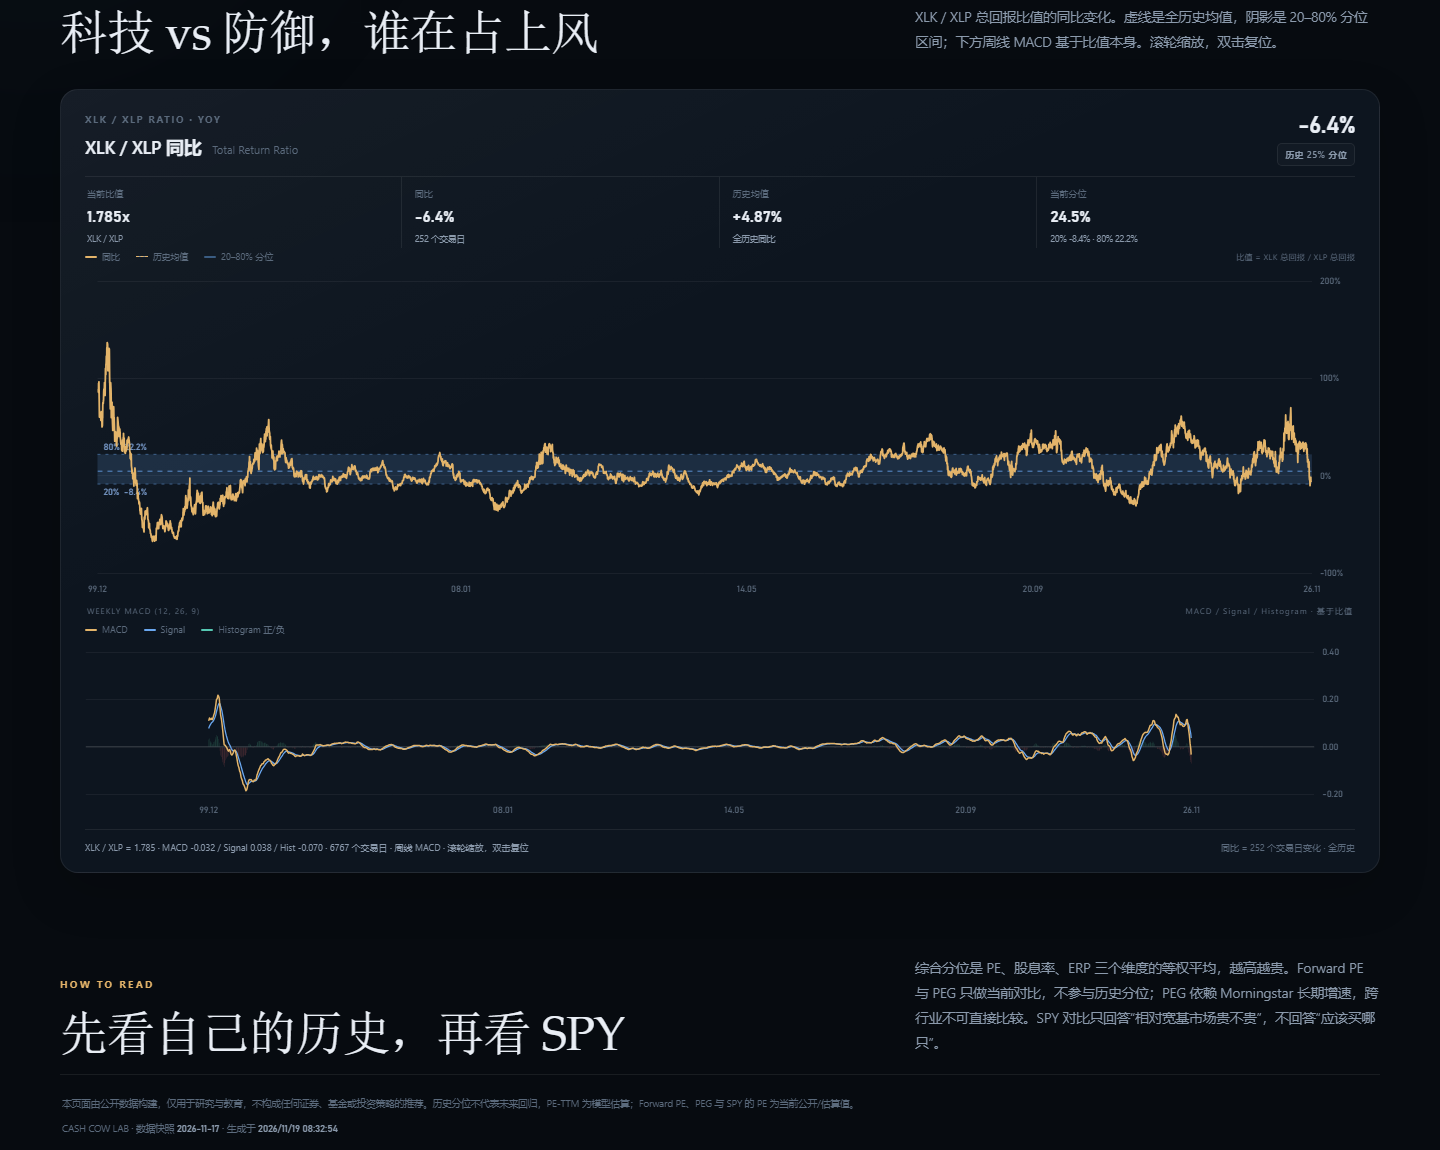
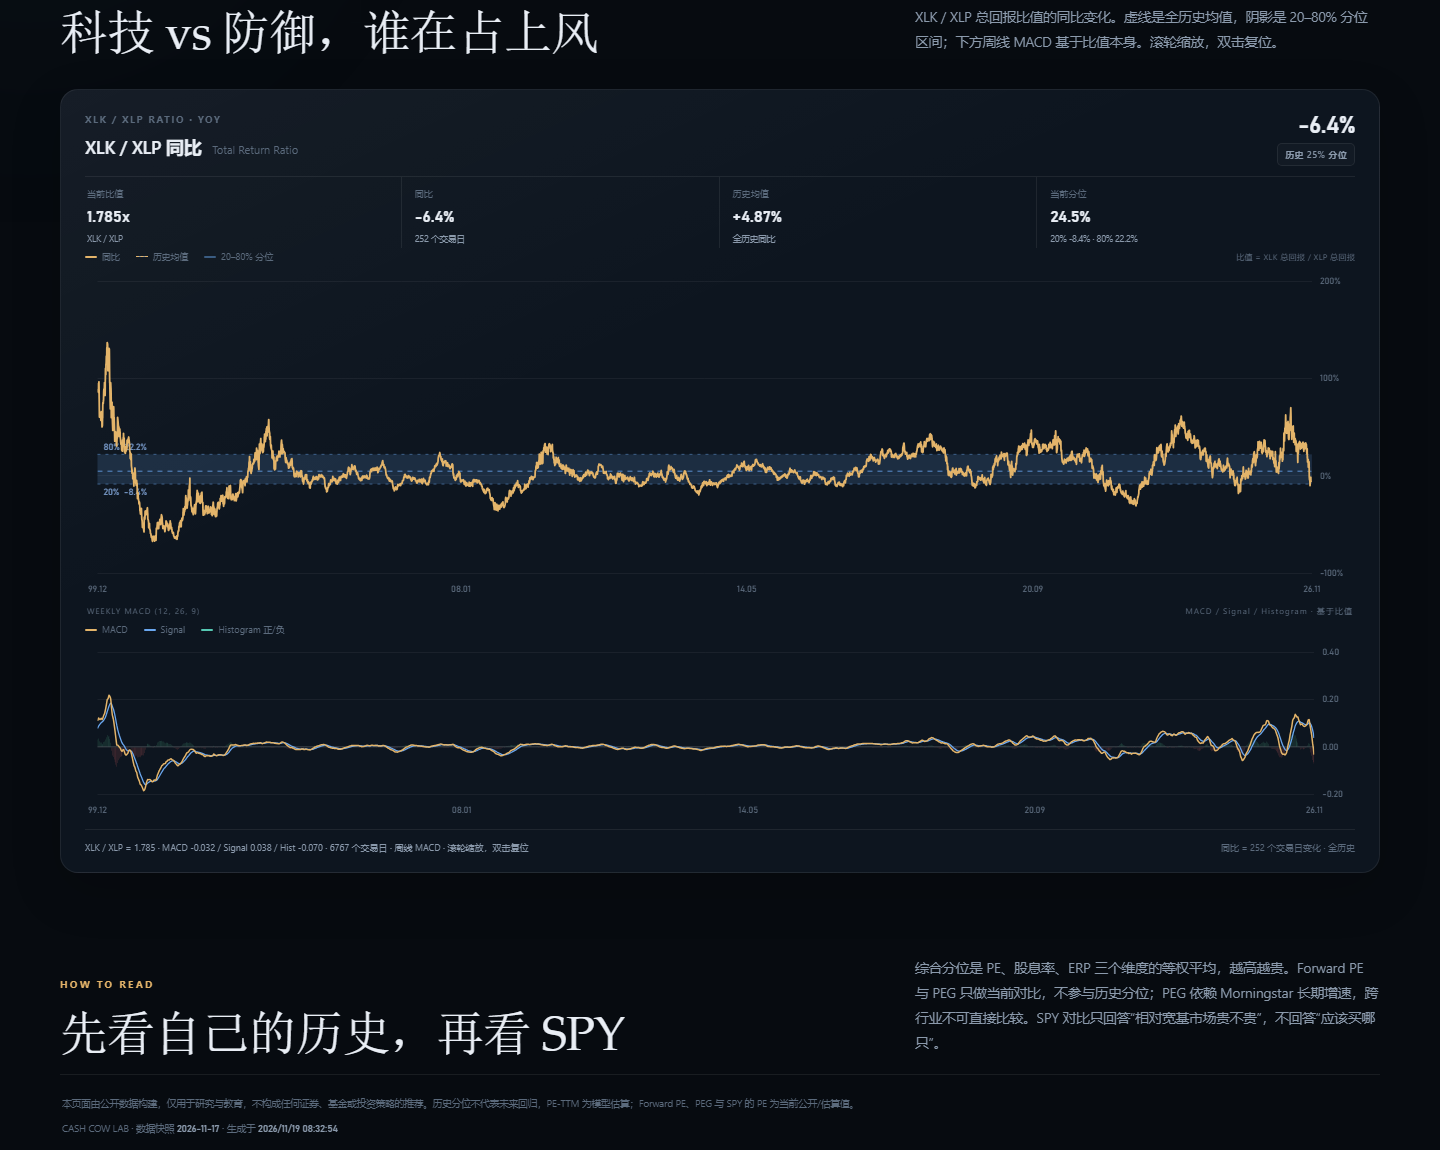
new

Changed region(s): [[0.0625, 0.6087, 0.4375, 0.7], [0.5625, 0.6087, 0.9062, 0.6696], [0.5, 0.6391, 0.5312, 0.6696]]

diff --git a/site/overview.js b/site/overview.js
@@ -195,6 +195,7 @@
         type: "linear",
         min: first,
         max: last + 3 * DAY,
+        offset: false,
         grid: { display: false },
         border: { display: false },
         ticks: {
@@ -324,4 +325,5 @@
     canvas.addEventListener("wheel", (event) => zoomAt(event, canvas), { passive: false });
     canvas.addEventListener("dblclick", () => applyWindow(first));
   });
-})();
+
+  })();

diff --git a/README.md b/README.md
@@ -34,7 +34,7 @@
 - 价格图下方的「区间回报 / 区间年化 / 最大回撤 / 年化波动」也随窗口同步重算。
 - 鼠标滚轮在任意图表上可连续缩放；双击图表恢复全历史；`全部` 按钮也可重置。
 - 季节性图固定使用**全历史完整月份**，不随窗口变化。
-- 总览页的 XLK/XLP 图表使用**复权总回报比值**，同比为 252 个交易日变化；虚线是全历史均值，阴影是 20–80% 分位区间；下方为**周线 MACD(12,26,9)**，柱状图为 MACD − Signal。同比需要 252 个交易日，因此曲线从 1999-12 开始。
+- 总览页的 XLK/XLP 图表使用**复权总回报比值**，同比为 252 个交易日变化；虚线是全历史均值，阴影是 20–80% 分位区间；下方为**周线 MACD(12,26,9)**，柱状图为 MACD − Signal；每周取该周最后一个真实交易日，且 X 轴关闭 offset，避免左右留白。同比需要 252 个交易日，因此曲线从 1999-12 开始。
 
 ## 快速开始
 
